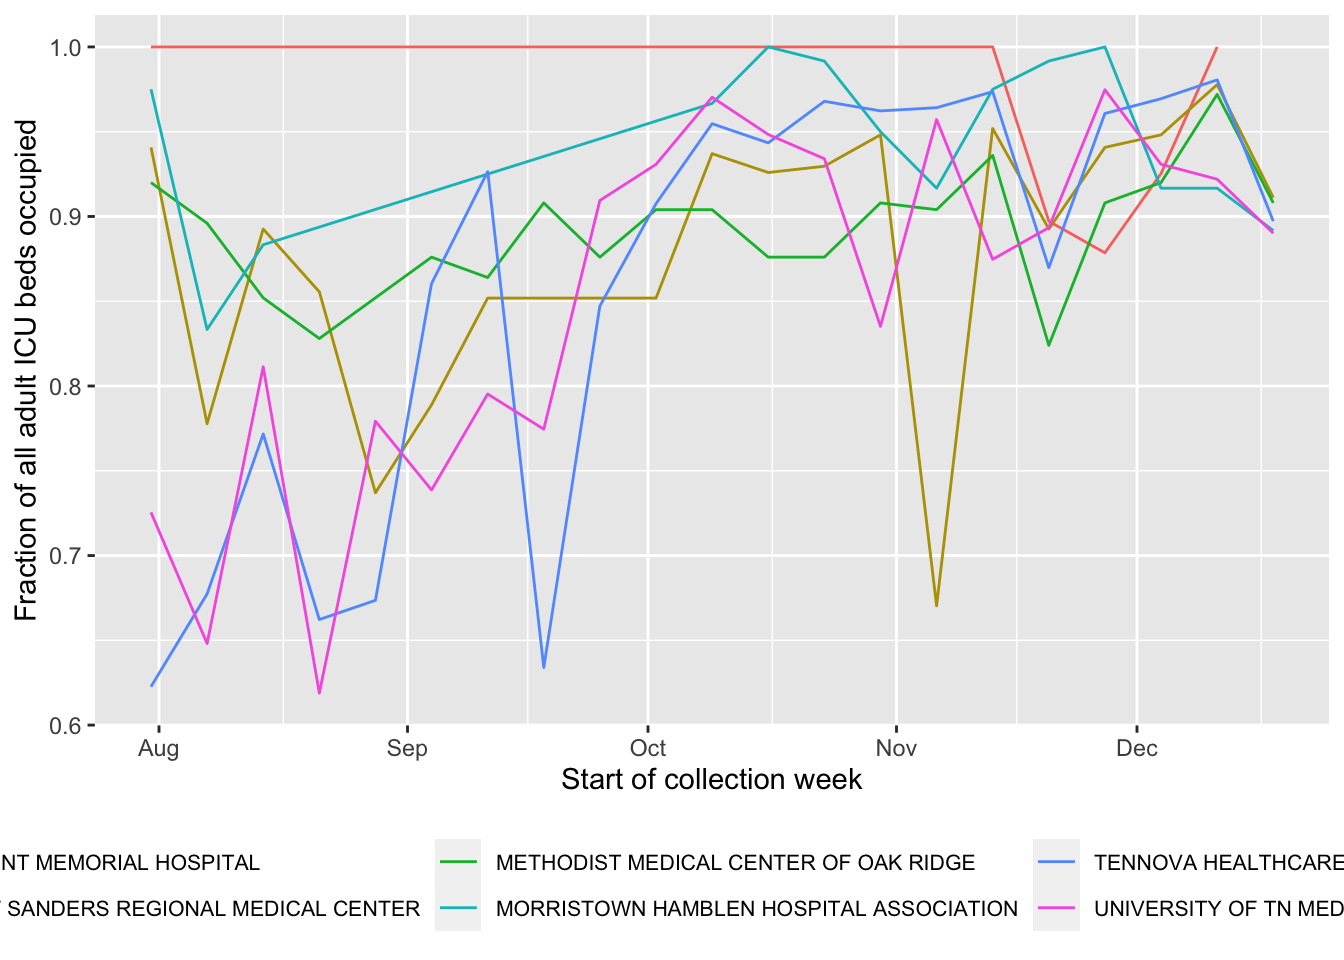
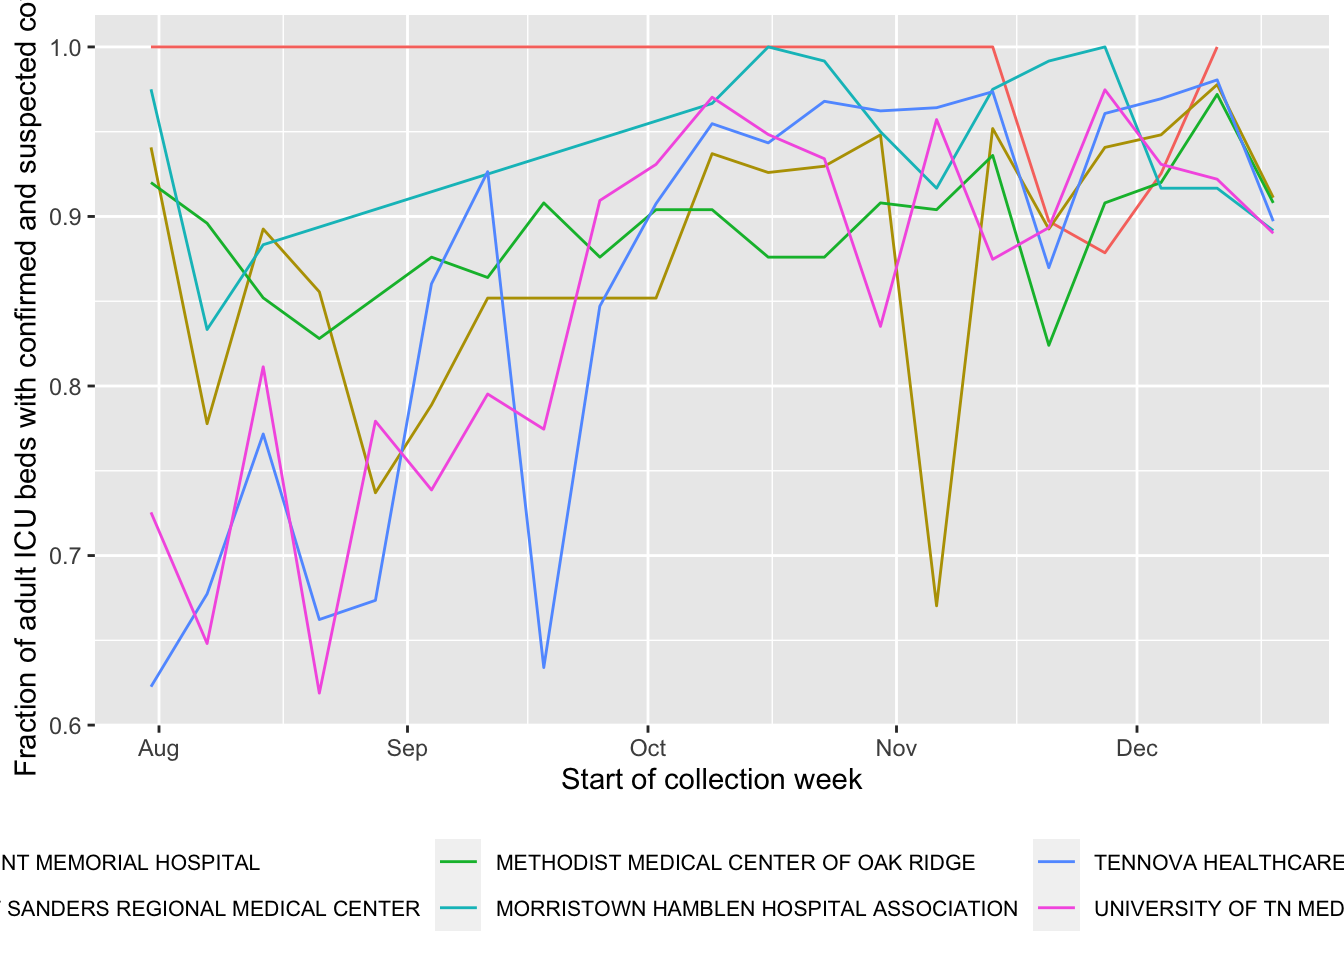
updating site

Changed region(s): [[0.0, 0.0, 0.0312, 0.8125]]

diff --git a/docs/covid.html b/docs/covid.html
@@ -438,7 +438,7 @@ $(document).ready(function () {
 <li>Info about cases at <a href="#ut">U. of Tennessee, Knoxville</a> (using public information only)</li>
 <li><a href="#webcams">Webcams</a> showing activity at local sites, though not quite at the resolution to point to mask usage or not</li>
 </ul>
-<p>The following plots are created in R using data from <a href="https://covid19datahub.io" class="uri">https://covid19datahub.io</a> (Guidotti, E., Ardia, D., (2020), “COVID-19 Data Hub”, Working paper, doi: 10.13140/RG.2.2.11649.81763), as well as information from Google and the <a href="https://www.tn.gov/health/cedep/ncov/data/downloadable-datasets.html">state of Tennessee dataset page</a> and plotting and analysis using the <code>forecast</code>, <code>ggplot2</code>, <code>reshape2</code>, and <code>dplyr</code> packages. Plots created on 2021-01-01 11:09:33. I use a seven day rolling average for most plots using the <code>geom_ma</code> function of <code>tidyquant</code>.</p>
+<p>The following plots are created in R using data from <a href="https://covid19datahub.io" class="uri">https://covid19datahub.io</a> (Guidotti, E., Ardia, D., (2020), “COVID-19 Data Hub”, Working paper, doi: 10.13140/RG.2.2.11649.81763), as well as information from Google and the <a href="https://www.tn.gov/health/cedep/ncov/data/downloadable-datasets.html">state of Tennessee dataset page</a> and plotting and analysis using the <code>forecast</code>, <code>ggplot2</code>, <code>reshape2</code>, and <code>dplyr</code> packages. Plots created on 2021-01-01 11:12:27. I use a seven day rolling average for most plots using the <code>geom_ma</code> function of <code>tidyquant</code>.</p>
 <h2 id="cases">
 Cases
 </h2>
@@ -484,7 +484,7 @@ Hospitalization
 <p>In December 2020, California instituted a new policy of going to shutdowns in regions when ICUs get filled above 85% capacity. When this happens, “Affected communities will be required to close personal service businesses, including hair and nail salons, playgrounds, zoos, museums, aquariums and wineries. Overnight, short-term stays at campgrounds would be prohibited. Restaurants will be required to return to take-out service only. Retail businesses will be limited to 20% of their customer capacity inside at any one time, with requirements for store officials to ensure there’s no indoor drinking or eating.” according to an <a href="https://www.latimes.com/california/story/2020-12-03/newsom-weighs-shutdown-california-covid-19-cases-soar-december">article in the LA times</a>. Tennessee is not bound by California’s rules, but we can plot our region’s hospital capacity and see how the current outbreak compares. Blue shows California’s threshold for shutting down many things like dining in restaurants; red shows full capacity for our region, when every bed is full (ignoring any surge capacity):</p>
 <p><img src="covid_files/figure-html/hospitalcapacityplotvsCA-1.png" width="672" /></p>
 <p>US Health and Human Services is now releasing data on hospital occupancy by hospital. For more, see <a href="https://healthdata.gov/dataset/covid-19-reported-patient-impact-and-hospital-capacity-facility">here</a>. I’m showing the hospitals in east Tennessee that have an average of at least 100 inpatient beds.</p>
-<p><img src="covid_files/figure-html/hhshospitalization-1.png" width="672" /><img src="covid_files/figure-html/hhshospitalization-2.png" width="672" /><img src="covid_files/figure-html/hhshospitalization-3.png" width="672" /><img src="covid_files/figure-html/hhshospitalization-4.png" width="672" /><img src="covid_files/figure-html/hhshospitalization-5.png" width="672" /><img src="covid_files/figure-html/hhshospitalization-6.png" width="672" /></p>
+<p><img src="covid_files/figure-html/hhshospitalization-1.png" width="672" /><img src="covid_files/figure-html/hhshospitalization-2.png" width="672" /><img src="covid_files/figure-html/hhshospitalization-3.png" width="672" /><img src="covid_files/figure-html/hhshospitalization-4.png" width="672" /></p>
 <hr />
 <h2 id="ages">
 Ages
